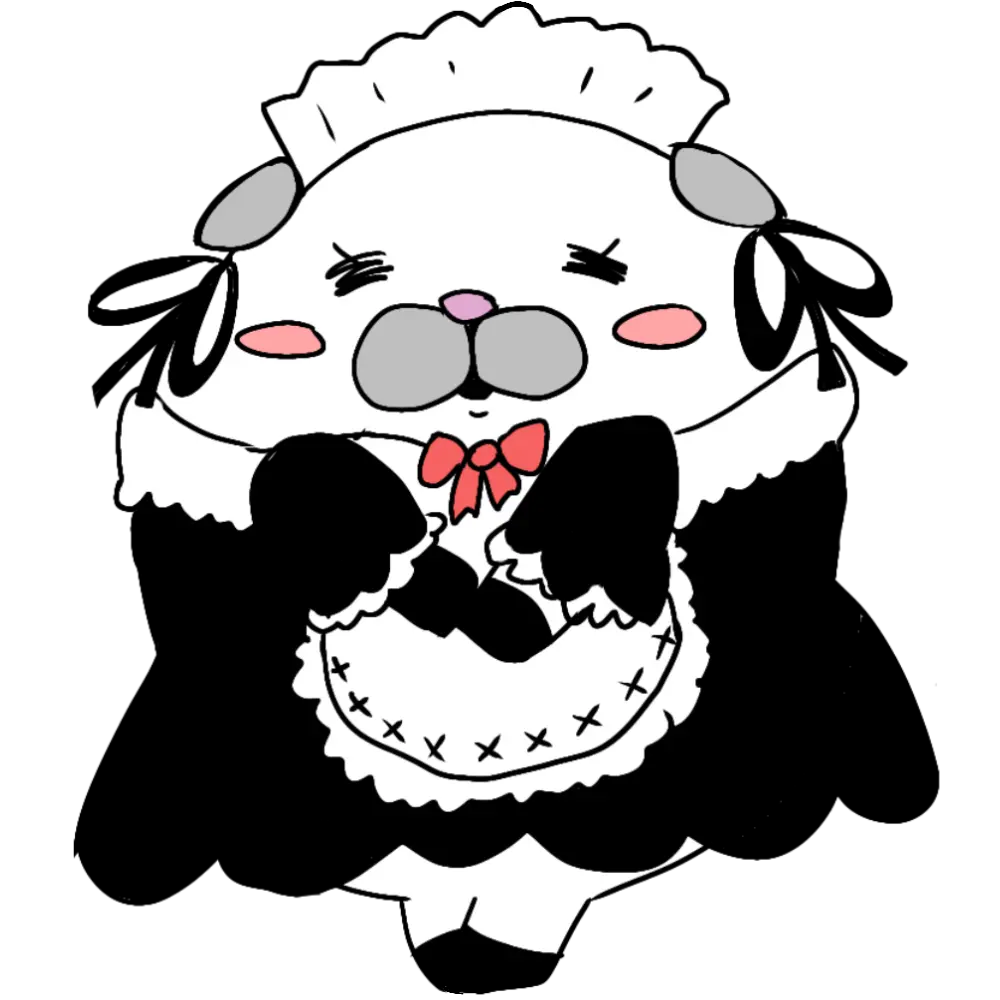
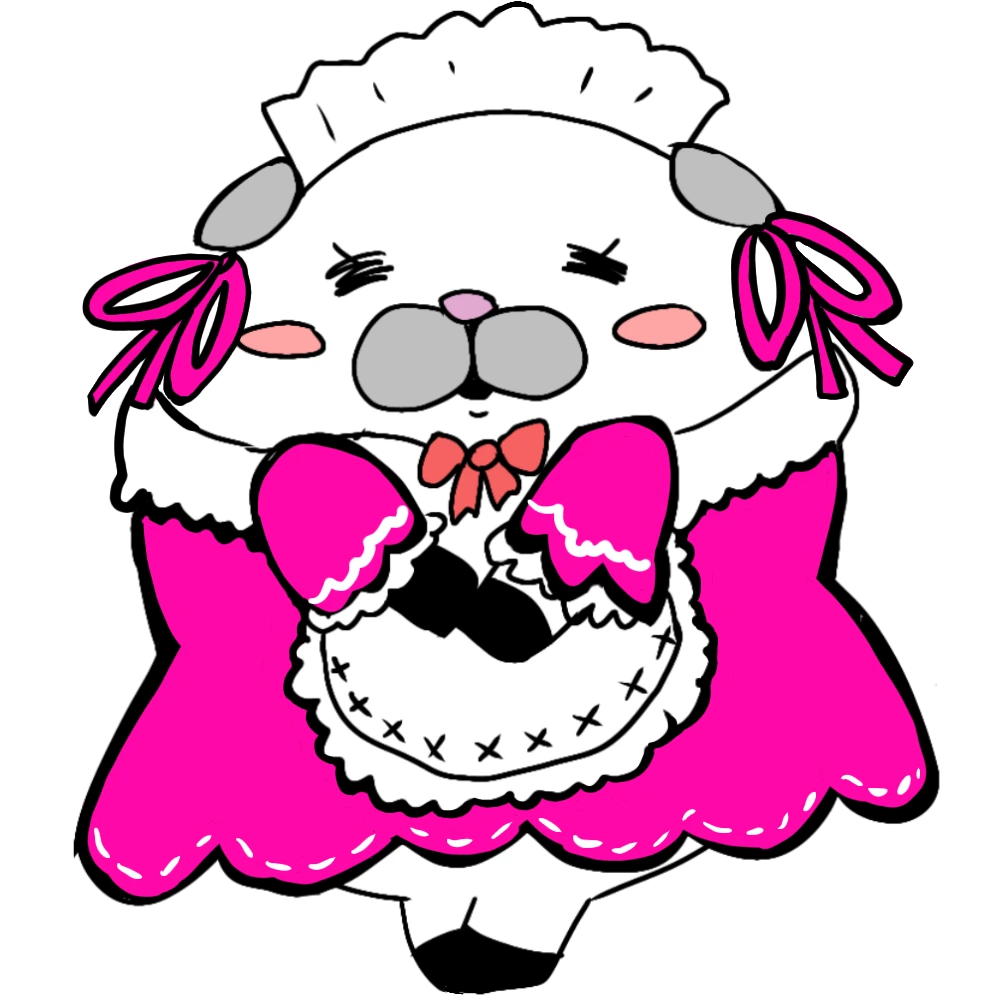
fix memory leaks

Changed region(s): [[0.062, 0.248, 0.93, 0.899], [0.713, 0.186, 0.93, 0.403]]

diff --git a/src/App.jsx b/src/App.jsx
@@ -87,6 +87,8 @@ export default function App() {
   }, []);
 
   const bgmRef = useRef(null);
+  const sfxContextRef = useRef(null);
+  const gameOverAudioRef = useRef(null);
 
   useEffect(() => {
     const audio = new Audio(`${import.meta.env.BASE_URL}すやすやタイム.mp3`);
@@ -94,10 +96,27 @@ export default function App() {
     audio.volume = 0.25; 
     bgmRef.current = audio;
 
+    const goAudio = new Audio(`${import.meta.env.BASE_URL}game-over.mp3`);
+    goAudio.volume = 0.35;
+    gameOverAudioRef.current = goAudio;
+
+    const AudioContextClass = window.AudioContext || window.webkitAudioContext;
+    if (AudioContextClass) {
+      sfxContextRef.current = new AudioContextClass();
+    }
+
     return () => {
       audio.pause();
       audio.src = '';
       bgmRef.current = null;
+
+      goAudio.src = '';
+      gameOverAudioRef.current = null;
+
+      if (sfxContextRef.current && sfxContextRef.current.state !== 'closed') {
+        sfxContextRef.current.close();
+        sfxContextRef.current = null;
+      }
     };
   }, []);
 
@@ -134,12 +153,20 @@ export default function App() {
   const playSound = (type, tier = 0) => {
     if (muted) return;
     try {
-      const AudioContext = window.AudioContext || window.webkitAudioContext;
-      if (!AudioContext) return;
-      const ctx = new AudioContext();
+      if (type === 'gameover') {
+        const goAudio = gameOverAudioRef.current;
+        if (goAudio) {
+          goAudio.currentTime = 0;
+          goAudio.play().catch(e => console.log('Game Over SFX play failed:', e));
+        }
+        return;
+      }
+
+      const ctx = sfxContextRef.current;
+      if (!ctx) return;
+      if (ctx.state === 'suspended') ctx.resume();
 
       if (type === 'merge') {
-        
         const osc = ctx.createOscillator();
         const gain = ctx.createGain();
 
@@ -156,7 +183,6 @@ export default function App() {
         osc.start();
         osc.stop(ctx.currentTime + 0.18);
       } else if (type === 'drop') {
-        
         const osc = ctx.createOscillator();
         const gain = ctx.createGain();
 
@@ -171,10 +197,6 @@ export default function App() {
         gain.connect(ctx.destination);
         osc.start();
         osc.stop(ctx.currentTime + 0.08);
-      } else if (type === 'gameover') {
-        const audio = new Audio(`${import.meta.env.BASE_URL}game-over.mp3`);
-        audio.volume = 0.35;
-        audio.play().catch(e => console.log('Game Over SFX play failed:', e));
       }
     } catch (e) {
       console.warn('AudioContext failed to trigger:', e);

diff --git a/src/components/GameCanvas.jsx b/src/components/GameCanvas.jsx
@@ -276,16 +276,14 @@ export default function GameCanvas({
 
   const updateParticles = () => {
     const list = particlesRef.current;
-    for (let i = list.length - 1; i >= 0; i--) {
+    for (let i = 0; i < list.length; i++) {
       const p = list[i];
       p.x += p.vx;
       p.y += p.vy;
       p.vy += 0.15; 
       p.alpha -= p.decay;
-      if (p.alpha <= 0) {
-        list.splice(i, 1);
-      }
     }
+    particlesRef.current = list.filter(p => p.alpha > 0);
   };
 
   const drawParticles = (ctx) => {